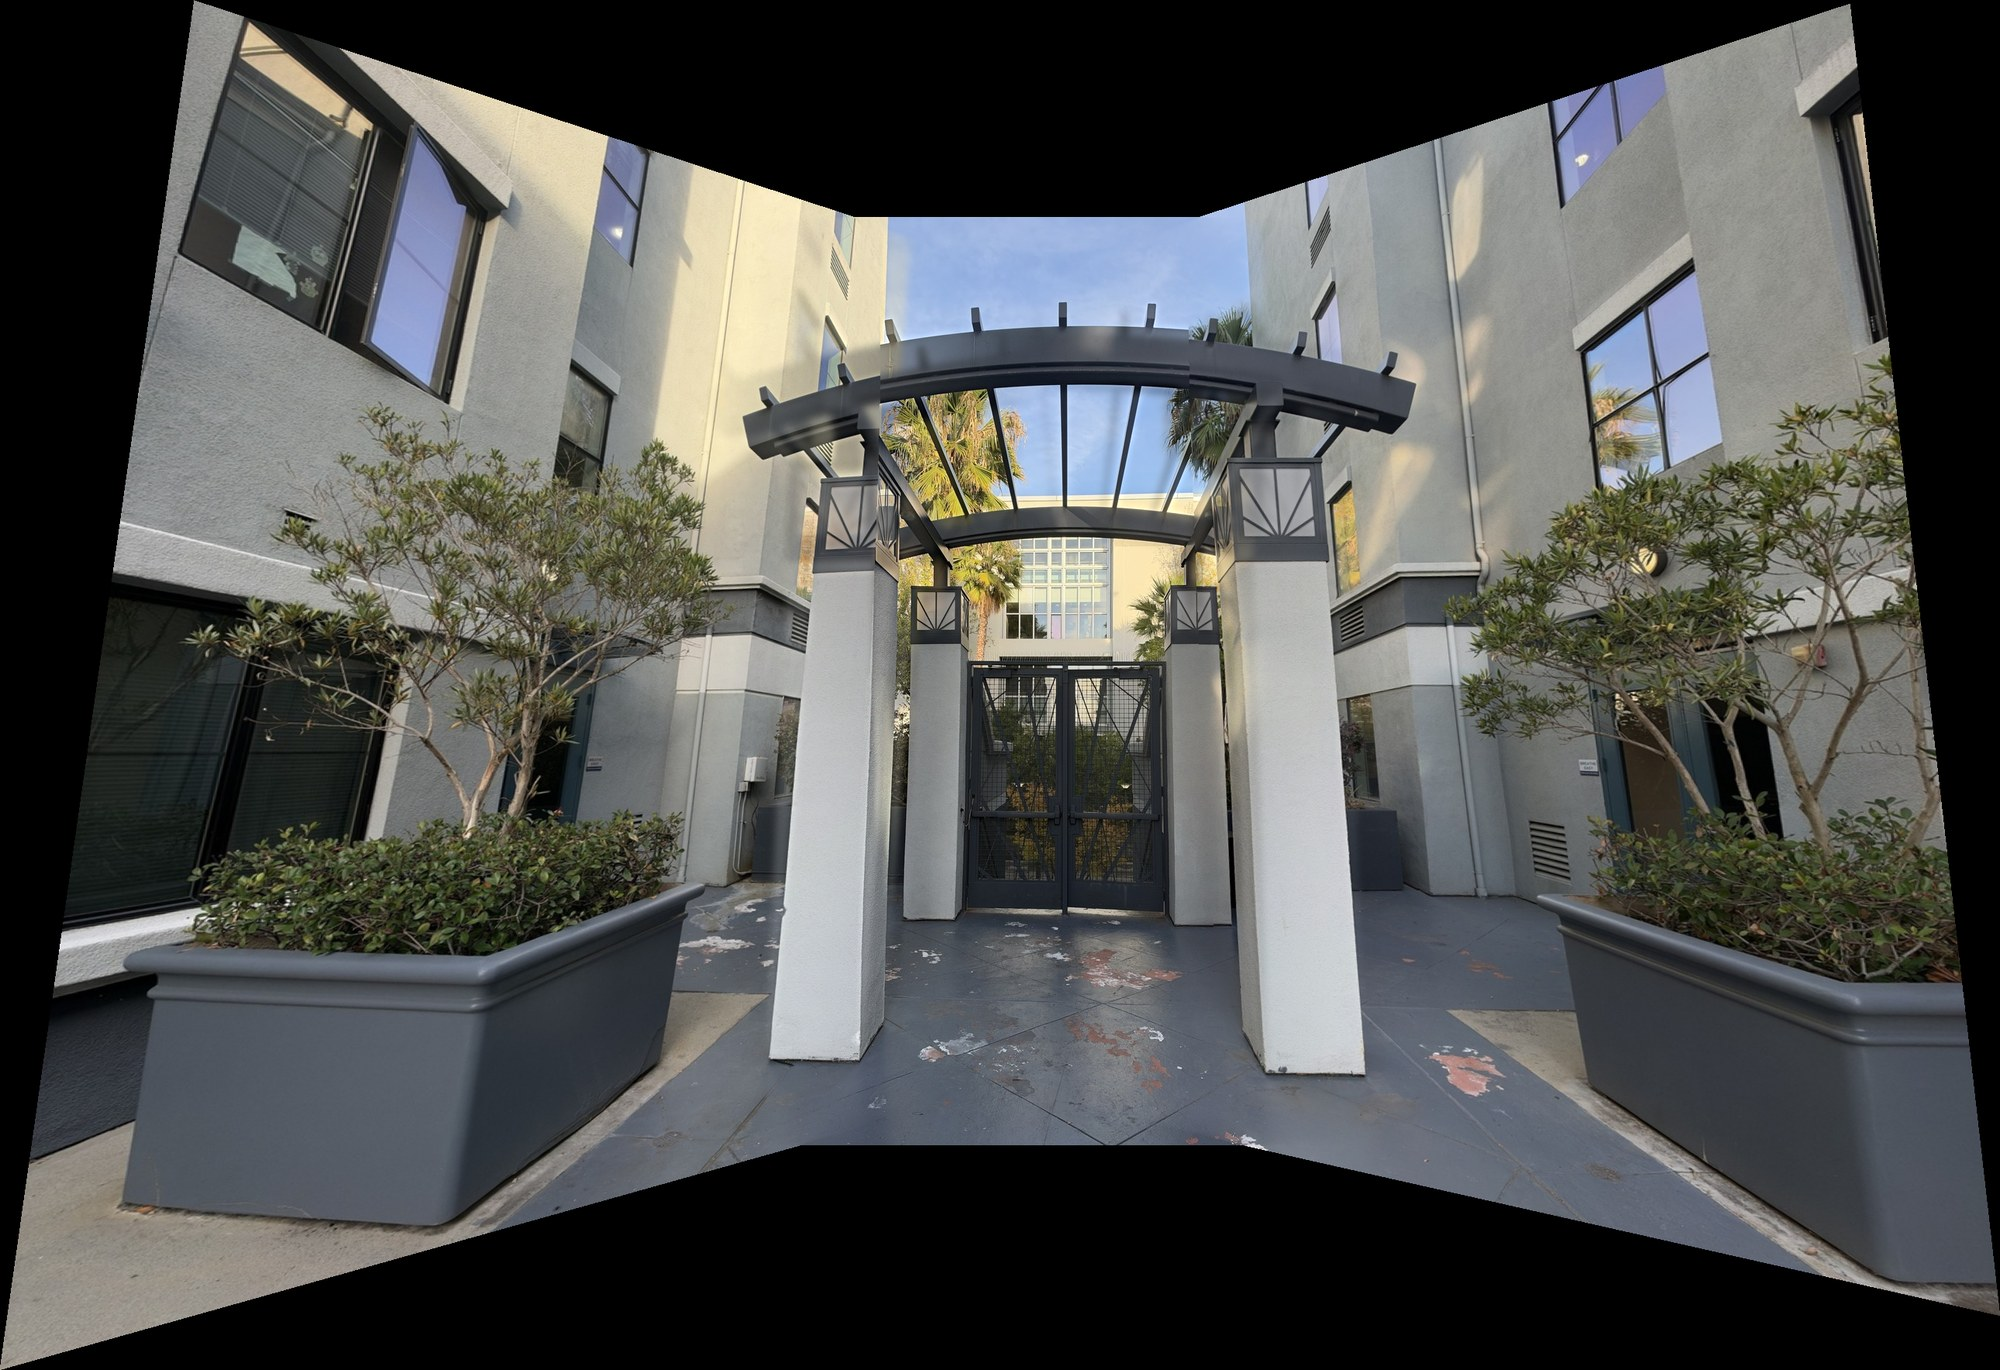
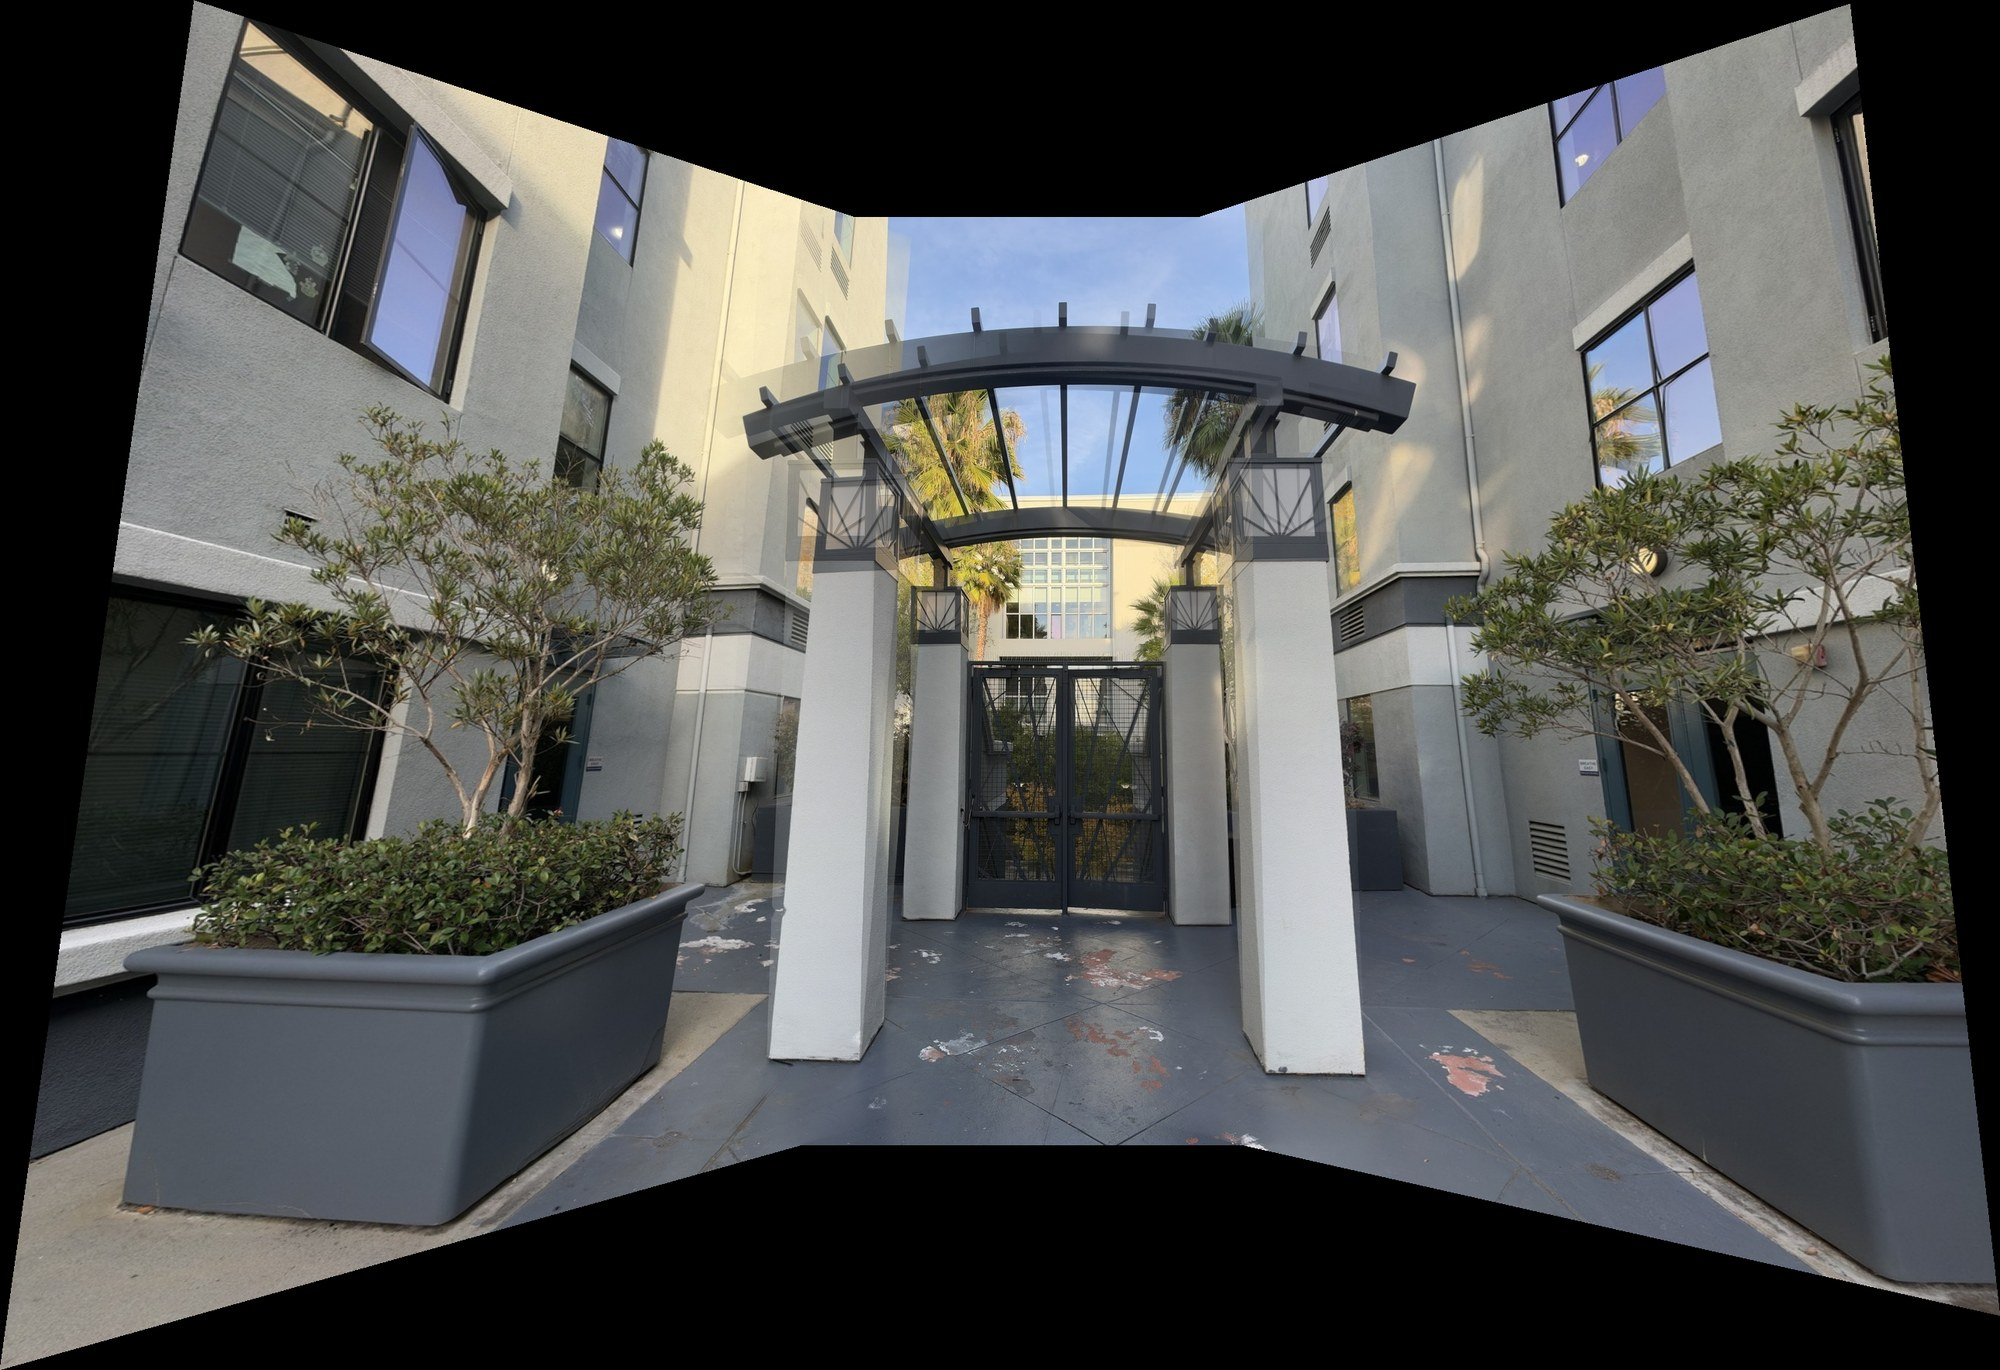
Project 4A: simple linear-falloff blending, A.4 text

Changed region(s): [[0.558, 0.2759, 0.62, 0.4599], [0.403, 0.2759, 0.496, 0.4599], [0.589, 0.4905, 0.62, 0.5212]]

diff --git a/cs180/project4a/index.html b/cs180/project4a/index.html
@@ -101,7 +101,7 @@
   <li>Calculate the new image boundary by passing the corners of the old image through our homography matrix.</li>
   <li>Use an inverse homography mapping of every pixel in the new image boundary to find where it comes from in the old image.</li>
   <li>The difference between nearest neighbor and bilinear: nearest neighbor locates the closest pixel to take its value, while bilinear takes a weighted average of the surrounding pixels it lands in.</li>
-  <li>Finally, for rectify, I pick the four corners as points and map them to a rectangle with the relevant dimensions: 85.6 × 54 mm for the ID card and roughly 3.7 × 8.5 in for one panel of the folded flyer. (The ID number and barcode are blurred.)</li>
+  <li>Finally, for rectify, I pick the four corners as points and map them to a rectangle with the relevant dimensions: 85.6 × 54 mm for the ID card and roughly 3.7 × 8.5 in for one panel of the folded flyer.</li>
 </ol>
 <h3>Student ID card</h3>
 <div class="trio">
@@ -120,8 +120,8 @@
 <p>Honestly, from an overall point of view, there is not a huge difference, especially in time. Both finished quickly, under a second. Bilinear might take a little longer: after timing, I found nearest neighbor takes 0.03 s and 0.07 s on the two images while bilinear takes 0.06 s and 0.14 s, so bilinear actually takes twice as long. The real difference is when zooming in: bilinear generally gives a smoother result, thanks to it smoothing over the surrounding pixels instead of picking one.</p>
 
 <h2>A.4: Blending into a mosaic</h2>
-<p>I keep the center image fixed and compute a homography from the left and right images into it. Pushing every image's corners through its homography gives the size of one shared canvas, and I warp all three images into it with bilinear interpolation. Each image also carries a weight that is 1 at its center and falls off linearly to 0 at its edges.</p>
-<p>Plain weighted averaging leaves faint ghosting wherever the alignment is a pixel or two off, so I use a two-band blend. The low frequencies are a weighted average of all images, and the high frequencies come from whichever image has the largest weight at that pixel. This keeps the color transition smooth while edges stay sharp.</p>
+<p>Since we already have the H for these cases, we're basically doing the same as A.3. We still calculate the boundaries, but we have three images, so we take the maximum boundary out of the 12 calculated corner points together. Next, we apply the same inverse mapping and use bilinear interpolation to find the pixel values.</p>
+<p>For the actual blending, I use the suggested alpha idea, where each image's weight is 1 at its center and falls off linearly to 0 at its edges, and take the weighted average of the overlapping images.</p>
 <h3>Kitchen</h3>
 <figure class="wide"><img src="assets/mosaic1.jpg" alt="kitchen mosaic"></figure>
 <h3>Gate</h3>
